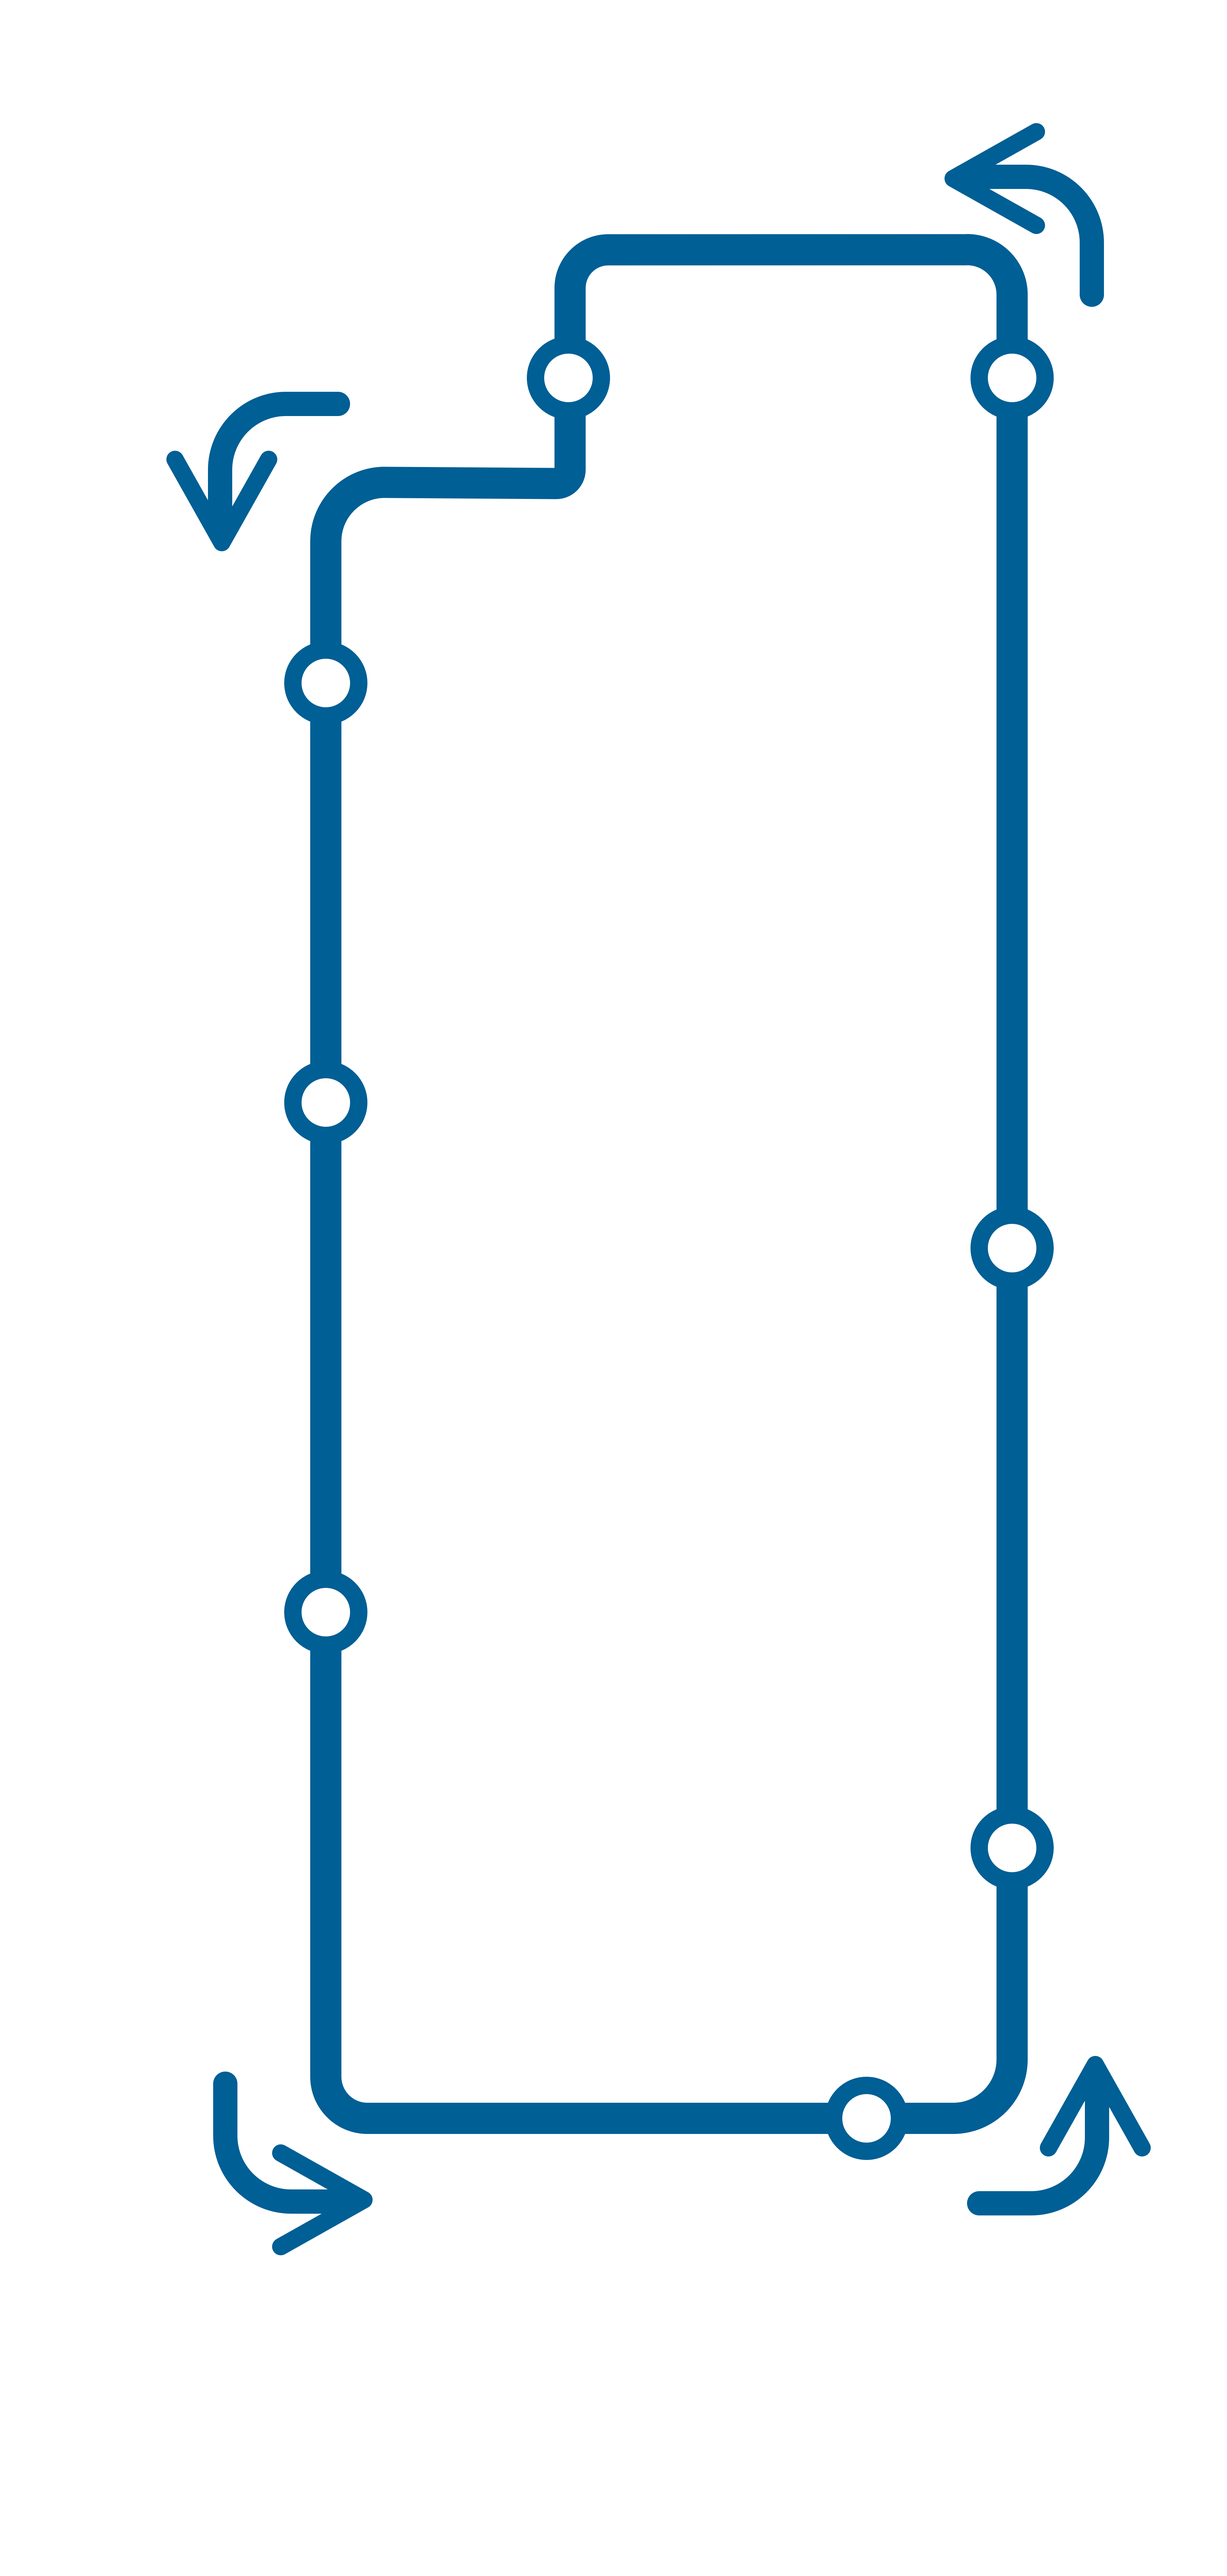
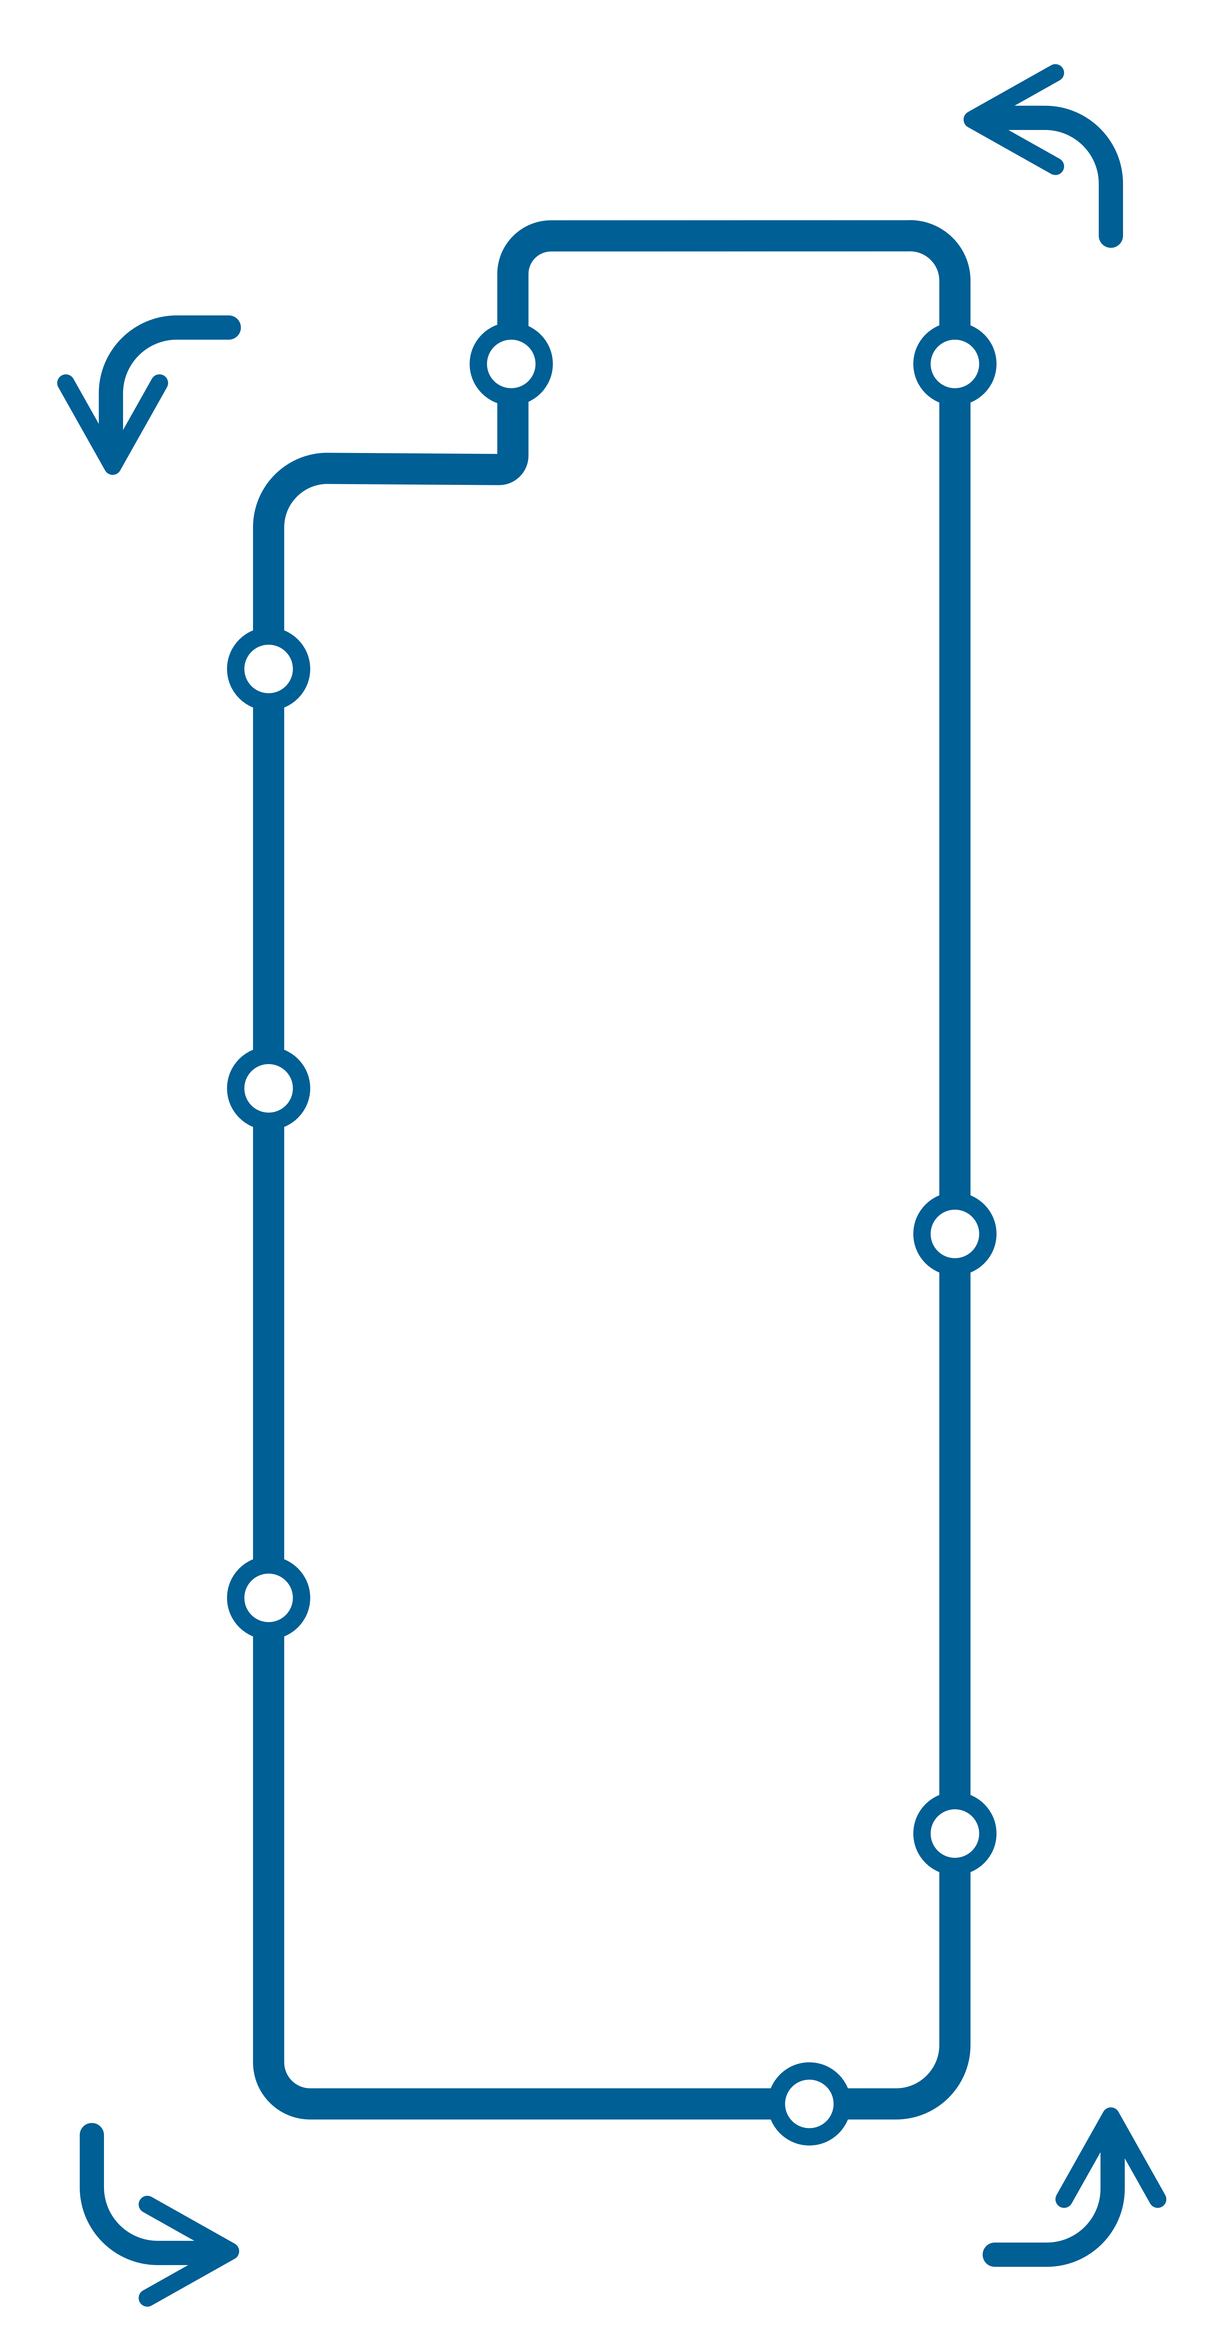
:art:Bus更新

Changed region(s): [[0.0311, 0.0311, 0.9322, 0.9336], [0.8079, 0.9025, 0.9633, 0.9647], [0.0621, 0.9025, 0.1864, 0.9959]]

diff --git a/src/pages/Features/Bus.js b/src/pages/Features/Bus.js
@@ -25,9 +25,8 @@ const {bg_color, white, black, themeColor} = COLOR_DIY;
 const {width: PAGE_WIDTH} = Dimensions.get('window');
 const {height: PAGE_HEIGHT} = Dimensions.get('screen');
 
+let busIcon = require('../../static/img/Bus/bus.png');
 let busRouteImg = require('../../static/img/Bus/bus_route.png');
-let arrowImg = require('../../static/img/Bus/direction_left.png');
-let dotImg = require('../../static/img/Bus/loc_dot.png');
 let stopImgArr = [
     require('../../static/img/Bus/stopImg/PGH.jpg'),
     require('../../static/img/Bus/stopImg/E4.jpg'),
@@ -160,11 +159,10 @@ class BusScreen extends Component {
         return (
             <TouchableOpacity
                 onPress={this.toggleModal.bind(this, index)}
-                // TODO: 兩輛巴士情況的到站標識
                 style={{
                     position: 'absolute',
-                    left: scale(left),
-                    top: verticalScale(top),
+                    left: pcHeightToNumHeight(left, PAGE_WIDTH),
+                    top: pcHeightToNumHeight(top, PAGE_HEIGHT),
                     paddingHorizontal: pxToDp(5),
                     paddingVertical: pxToDp(2),
                     alignItems: 'center',
@@ -183,62 +181,6 @@ class BusScreen extends Component {
             isModalVisible: !this.state.isModalVisible,
             clickStopIndex: index,
         });
-    };
-
-    renderArrow = (deg, left, top) => {
-        return (
-            <View
-                style={{
-                    position: 'absolute',
-                    left: scale(left),
-                    top: verticalScale(top),
-                }}>
-                <Image
-                    source={arrowImg}
-                    style={{...s.arrowSize, transform: [{rotate: deg + 'deg'}]}}
-                />
-            </View>
-        );
-    };
-    renderArrow2 = (deg, left, top) => {
-        return (
-            <View
-                style={{
-                    position: 'absolute',
-                    left: pcHeightToNumHeight(left, PAGE_WIDTH),
-                    top: pcHeightToNumHeight(top, PAGE_HEIGHT),
-                }}>
-                <Image
-                    source={arrowImg}
-                    style={{...s.arrowSize, transform: [{rotate: deg + 'deg'}]}}
-                />
-            </View>
-        );
-    };
-
-    renderCircle = (left, top) => {
-        return (
-            <View
-                style={{
-                    position: 'absolute',
-                    left: scale(left),
-                    top: verticalScale(top),
-                }}>
-                <Image source={dotImg} style={s.dotSize} />
-            </View>
-        );
-    };
-    renderCircle2 = (left, top) => {
-        return (
-            <View
-                style={{
-                    position: 'absolute',
-                    left: pcHeightToNumHeight(left, PAGE_WIDTH),
-                    top: pcHeightToNumHeight(top, PAGE_HEIGHT),
-                }}>
-                <Image source={dotImg} style={s.dotSize} />
-            </View>
-        );
     };
 
     render() {
@@ -273,8 +215,6 @@ class BusScreen extends Component {
                     <FastImage
                         source={busRouteImg}
                         style={{
-                            // width: scale(350),
-                            // height: verticalScale(680),
                             width: pcHeightToNumHeight('100%', PAGE_WIDTH),
                             height: pcHeightToNumHeight('100%', PAGE_HEIGHT),
                         }}>
@@ -326,107 +266,50 @@ class BusScreen extends Component {
                         {busPositionArr.length > 0
                             ? busPositionArr.map(item => (
                                   <View style={busStyleArr[item.index]}>
-                                      <Ionicons
-                                          name={'bus'}
-                                          size={pxToDp(30)}
-                                          color={themeColor}
+                                      <Image
+                                          source={busIcon}
+                                          style={{
+                                              width: pxToDp(30),
+                                              height: pxToDp(30),
+                                          }}
                                       />
                                   </View>
                               ))
                             : null}
 
-                        {/* 右上箭頭 */}
-                        {this.renderArrow2(0, '85%', '5%')}
-                        {/* 左上箭頭 */}
-                        {this.renderArrow2(-90, '3%', '22%')}
-                        {/* 左下箭頭 */}
-                        {this.renderArrow2(180, '3%', '90%')}
-                        {/* 右下箭頭 */}
-                        {this.renderArrow2(90, '87%', '90%')}
-
-                        {/* 站點圓點圖標 */}
-                        {/* PGH - 逆時針 - S4 */}
-                        {this.renderCircle2('86%', '80%')}
-                        {this.renderCircle2('86%', '55%')}
-                        {this.renderCircle2('86%', '12%')}
-                        {this.renderCircle2('34%', '18%')}
-                        {this.renderCircle2('8%', '35%')}
-                        {this.renderCircle2('8%', '48%')}
-                        {this.renderCircle2('8%', '70%')}
-                        {this.renderCircle2('70%', '90%')}
-
-                        {false && (
-                            <View>
-                                {/* 右上箭頭 */}
-                                {this.renderArrow(0, 280, 25)}
-                                {/* 左上箭頭 */}
-                                {this.renderArrow(-90, 35, 150)}
-                                {/* 左下箭頭 */}
-                                {this.renderArrow(180, 35, 610)}
-                                {/* 右下箭頭 */}
-                                {this.renderArrow(90, 290, 610)}
-
-                                {/* 站點圓點圖標 */}
-                                {/* PGH - 逆時針 - S4 */}
-                                {this.renderCircle(281, 540)}
-                                {this.renderCircle(281, 360)}
-                                {this.renderCircle(281, 80)}
-                                {this.renderCircle(126, 120)}
-                                {this.renderCircle(50, 250)}
-                                {this.renderCircle(50, 330)}
-                                {this.renderCircle(50, 510)}
-                                {this.renderCircle(250, 610)}
-
-                                {/* 巴士站點文字 */}
-                                {this.renderBusStopText(
-                                    140,
-                                    540,
-                                    'PGH 研究生宿舍(起)',
-                                    0,
-                                )}
-                                {this.renderBusStopText(
-                                    190,
-                                    357,
-                                    'E4 劉少榮樓',
-                                    1,
-                                )}
-                                {this.renderBusStopText(
-                                    188,
-                                    75,
-                                    'N2 大學會堂',
-                                    2,
-                                )}
-                                {this.renderBusStopText(
-                                    150,
-                                    115,
-                                    'N6 行政樓',
-                                    3,
-                                )}
-                                {this.renderBusStopText(
-                                    75,
-                                    247,
-                                    'E11 科技學院',
-                                    4,
-                                )}
-                                {this.renderBusStopText(
-                                    75,
-                                    325,
-                                    'E21 人文社科樓',
-                                    5,
-                                )}
-                                {this.renderBusStopText(
-                                    75,
-                                    505,
-                                    'E32 法學院',
-                                    6,
-                                )}
-                                {this.renderBusStopText(
-                                    110,
-                                    633,
-                                    'S4 研究生宿舍南四座(終)',
-                                    7,
-                                )}
-                            </View>
+                        {/* 巴士站點文字 */}
+                        {this.renderBusStopText(
+                            '40%',
+                            '76.2%',
+                            'PGH 研究生宿舍(起)',
+                            0,
+                        )}
+                        {this.renderBusStopText('52%', '51%', 'E4 劉少榮樓', 1)}
+                        {this.renderBusStopText('52%', '14%', 'N2 大學會堂', 2)}
+                        {this.renderBusStopText('16%', '14%', 'N6 行政樓', 3)}
+                        {this.renderBusStopText(
+                            '24%',
+                            '27%',
+                            'E11 科技學院',
+                            4,
+                        )}
+                        {this.renderBusStopText(
+                            '24%',
+                            '44.8%',
+                            'E21 人文社科樓',
+                            5,
+                        )}
+                        {this.renderBusStopText(
+                            '24%',
+                            '66.2%',
+                            'E32 法學院',
+                            6,
+                        )}
+                        {this.renderBusStopText(
+                            '30%',
+                            '92%',
+                            'S4 研究生宿舍南四座(終)',
+                            7,
                         )}
                     </FastImage>
                 </ScrollView>
